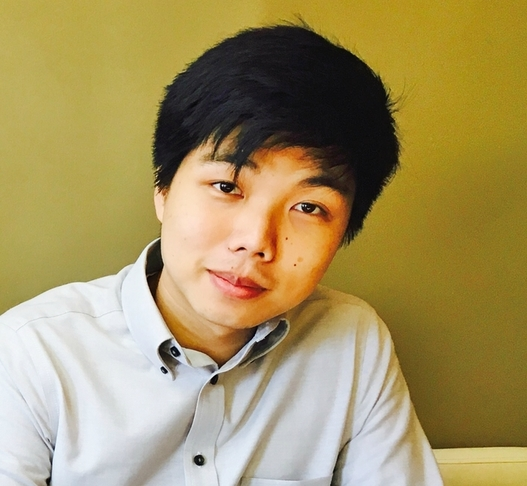
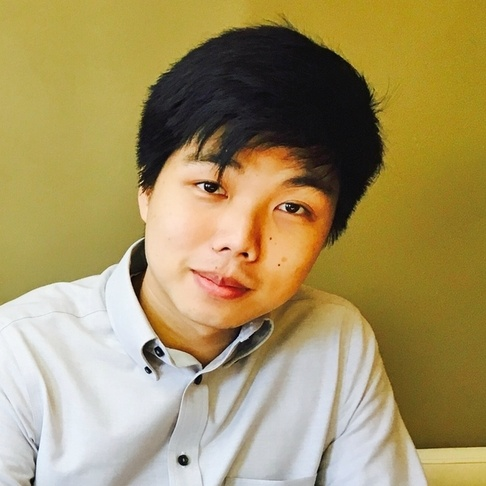
Changed profile picture file to square image. Cropped into a circle

diff --git a/css/style.css b/css/style.css
@@ -149,6 +149,9 @@ p{
 #quote #plato {
   font-family: 'Crimson Text', Verdana, sans-serif;
 }
+#beauty {
+  border-radius: 50%;
+}
 /**
  * Skills
  */

diff --git a/index.php b/index.php
@@ -110,7 +110,7 @@ Version Date: 02/03/2017 Time: 10:59
 	</div>
 	<div id="about" class="set_height margin_center navbar_avoid_padding scroll">
 		<h2 class="title"> <a href="#about"> Lance Takiguchi </a> </h2>
-		<img src="assets/images/profile_pic.jpg" alt="Just imagine a really handsome web developer"/>
+		<img id="beauty" src="assets/images/profile_pic.jpg" alt="Just imagine a really handsome web developer"/>
 		<div>
 			<p>
 				Hello! The name is Lance, and welcome to my portfolio. I am a web developer in Irvine, Calfornia who loves tackling the puzzles hidden in the logic of code. 
